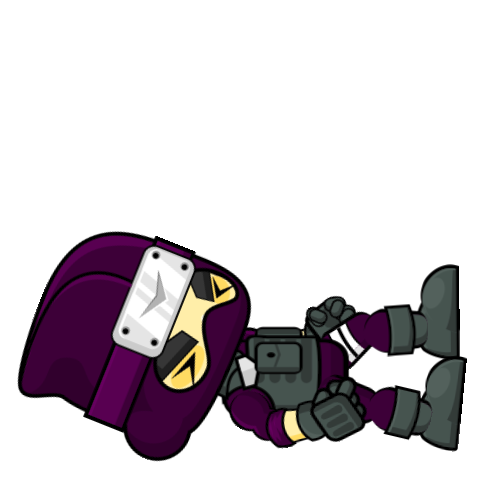
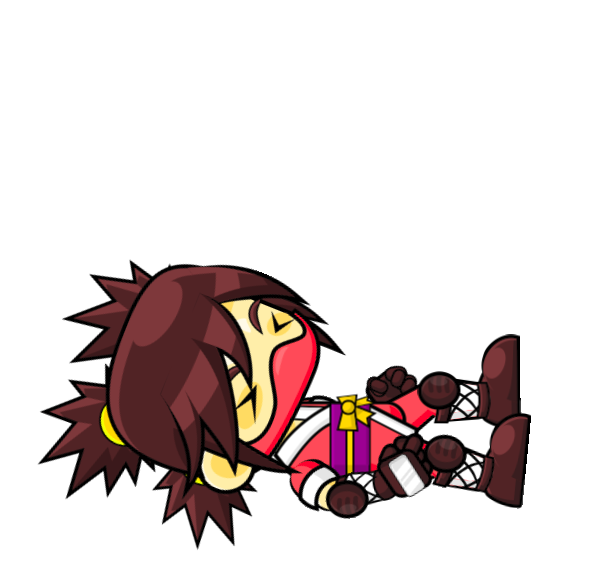
changed background, player assets, fixed player rendering bug, fixed player-enemy interaction bug

Changed region(s): [[0.0301, 0.4357, 0.9337, 0.9647]]

diff --git a/core/src/com/mygdx/game/characters/Player.java b/core/src/com/mygdx/game/characters/Player.java
@@ -36,11 +36,9 @@ public class Player {
 
 
     private Animation runAnimation;
-    private Animation jumpAnimation;
     private Animation currentAnimation;
-    private Animation slideAnimation;
+    private Animation jumpAnimation;
     private Animation deadAnimation;
-    private Animation deadAnimationStopped;
 
     private Rectangle ground1Left, ground1Right, ground2Left, ground2Right;
     private OrthographicCamera camera;
@@ -85,16 +83,11 @@ public class Player {
         runAnimation = GameUtils
                 .makeAnimation("ninjaAnimation/run/Run__00", "png", 9, 0.2f);
         jumpAnimation = GameUtils
-                .makeAnimation("ninjaAnimation/jump/Jump__00", "png", 9, 0.2f);
-        slideAnimation = GameUtils
-                .makeAnimation("ninjaAnimation/slide/Slide__00", "png", 9, 0.2f);
+                .makeAnimation("ninjaAnimation/attack/Glide_00", "png", 10, 0.2f);
         deadAnimation = GameUtils
-                .makeAnimation("ninjaAnimation/dead/Dead__00", "png", 9, 0.2f);
-        deadAnimationStopped = GameUtils
-                .makeAnimation("ninjaAnimation/dead/Dead_stop", "png", 1, 1f);
+                .makeAnimation("ninjaAnimation/dead/Dead__00", "png", 10, 0.2f, false);
 
-
-        currentAnimation = slideAnimation;
+        currentAnimation = jumpAnimation;
     }
 
     public Rectangle getCollBox() {
@@ -123,14 +116,12 @@ public class Player {
 
     public void update(float deltaTime) {
 
-        if (isDead && deadAnimation.loopedOnce()) {
-            currentAnimation = deadAnimationStopped;
-        } else if (isDead && !deadAnimation.loopedOnce()) {
+        if (isDead) {
             currentAnimation = deadAnimation;
         } else if (isGrounded()) {
             currentAnimation = runAnimation;
         } else {
-            currentAnimation = slideAnimation;
+            currentAnimation = jumpAnimation;
         }
 
 
@@ -266,7 +257,7 @@ public class Player {
         runAnimation.dispose();
         jumpAnimation.dispose();
         currentAnimation.dispose();
-        slideAnimation.dispose();
+        jumpAnimation.dispose();
     }
 
     public float getNonJumpPosY() {
@@ -283,11 +274,17 @@ public class Player {
             return;
         }
 
-        if (!isJumping) {
-            die();
+        if (enemy.isInvincible()) {
+            if (isProtected) {
+                isProtected = false;
+                enemy.die();
+            } else {
+                die();
+            }
             return;
         }
-        if (enemy.isInvincible()) {
+
+        if (!isJumping) {
             if (isProtected) {
                 isProtected = false;
                 enemy.die();

diff --git a/core/src/com/mygdx/game/states/PlayState.java b/core/src/com/mygdx/game/states/PlayState.java
@@ -10,9 +10,13 @@ import com.mygdx.game.EnemyHandler;
 import com.mygdx.game.GameStateManager;
 import com.mygdx.game.MyGdxGame;
 import com.mygdx.game.characters.Player;
+import java.util.Random;
 
 public class PlayState extends AbstractState {
     private Player player;
+
+
+    private Texture[] bgs;
 
     private Texture background;
     private Border border;
@@ -45,7 +49,13 @@ public class PlayState extends AbstractState {
     }
 
     private void initBackground() {
-        background = new Texture("bg2.png");
+        int bgsNo = 1;
+        bgs = new Texture[bgsNo];
+        for (int i = 0; i < bgs.length; i++) {
+            bgs[i] = new Texture("background/" + Integer.toString(i + 1) + ".png");
+        }
+
+        background = bgs[(new Random()).nextInt(bgsNo)];
     }
 
 

diff --git a/core/src/com/mygdx/game/GameUtils.java b/core/src/com/mygdx/game/GameUtils.java
@@ -6,8 +6,12 @@ import com.mygdx.game.sprites.Animation;
 public class GameUtils {
 
 
+
     public static Animation makeAnimation(String rootPath, String format, int frameCount, float cycleTime) {
-        return new Animation(makeTextureArray(rootPath, format, frameCount), frameCount, cycleTime);
+        return makeAnimation(rootPath, format, frameCount, cycleTime, true);
+    }
+    public static Animation makeAnimation(String rootPath, String format, int frameCount, float cycleTime, boolean cycle) {
+        return new Animation(makeTextureArray(rootPath, format, frameCount), frameCount, cycleTime, cycle);
     }
 
     public static Texture[] makeTextureArray(String rootPath, String format, int number) {
